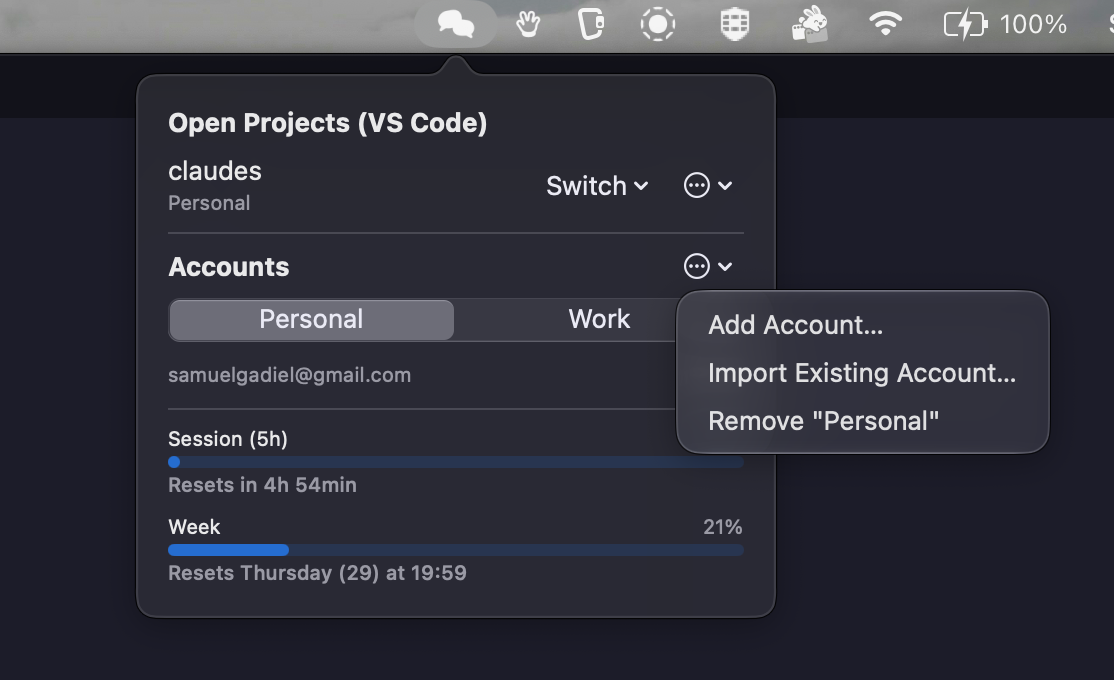
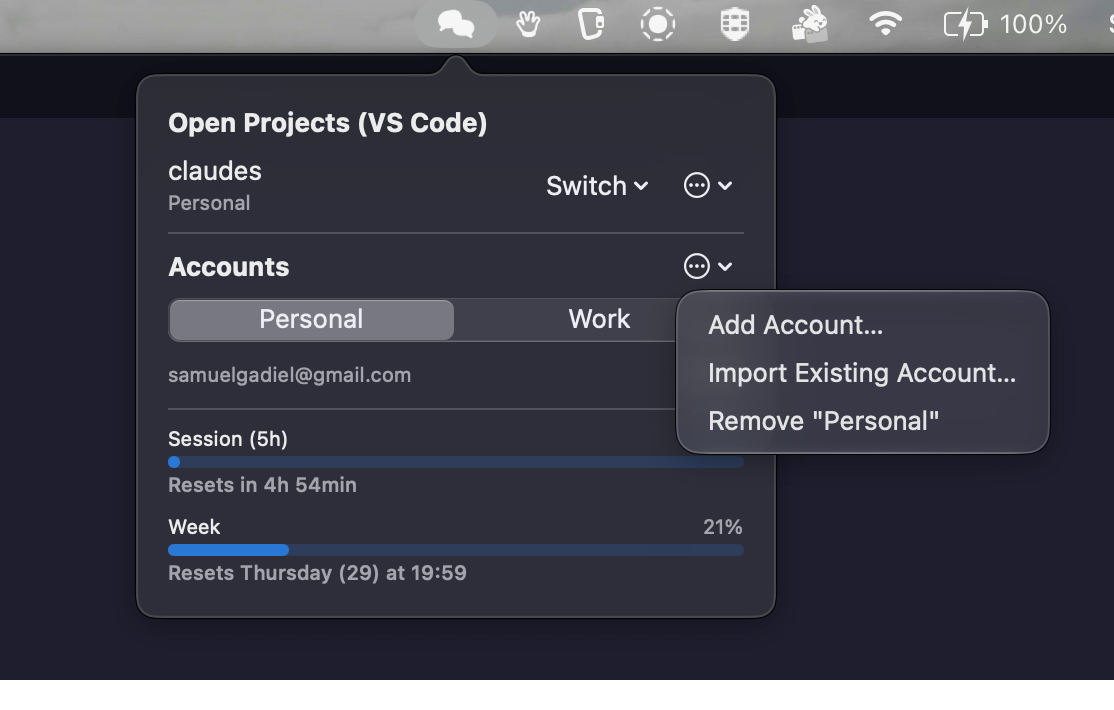
docs: fix GitHub-specific rendering issues in the README
Two things only showed up once rendered by GitHub, not in the VS Code
preview, both confirmed by rendering this file through the real GitHub
markdown API before committing:

- Large gap between the header icon and "ClaudeS": caused by the <h1>'s
  own margin-top applying between sibling elements. Moving the icon
  inside the <h1> (with a <br>) removes the gap between elements
  entirely.
- Boxed/bordered screenshots: GitHub's CSS puts a border on any <table>
  it renders, regardless of how it was generated — including the ones I
  used just to get vertical-align: top (the `style` attribute is stripped
  by GitHub's sanitizer, so valign on <td> was the only way that worked).
  Replaced with plain <p align="center"> and padded panel-high-usage.png
  and accounts-menu.png with transparent space at the bottom so each
  pairs up at an identical aspect ratio with its sibling — alignment now
  comes from the images themselves, no table needed.

diff --git a/README.md b/README.md
@@ -1,6 +1,8 @@
 <div align="center">
-  <img src="assets/ClaudeS-rounded.png" width="120" height="120" alt="ClaudeS icon">
-  <h1>ClaudeS</h1>
+  <h1>
+    <img src="assets/ClaudeS-rounded.png" width="120" height="120" alt="ClaudeS icon"><br>
+    ClaudeS
+  </h1>
   <p><strong>Run Claude Code under multiple accounts, side by side, without fighting VS Code over it.</strong></p>
 
   ![Platform](https://img.shields.io/badge/platform-macOS%2013%2B-blue?style=flat-square)
@@ -11,10 +13,10 @@
 
 <br>
 
-<table align="center"><tr>
-  <td valign="top"><img src="assets/screenshots/panel.png" width="340" alt="ClaudeS menu bar panel showing open VS Code projects and account usage"></td>
-  <td valign="top"><img src="assets/screenshots/panel-high-usage.png" width="340" alt="ClaudeS panel with session usage above 75%, shown in orange"></td>
-</tr></table>
+<p align="center">
+  <img src="assets/screenshots/panel.png" width="340" alt="ClaudeS menu bar panel showing open VS Code projects and account usage">
+  <img src="assets/screenshots/panel-high-usage.png" width="340" alt="ClaudeS panel with session usage above 75%, shown in orange">
+</p>
 
 ## Why
 
@@ -53,15 +55,13 @@ Download the latest `ClaudeS-*.zip` from [Releases](https://github.com/SamuelGad
 - **Native and small** — Swift + SwiftUI, no Electron, no background daemon you didn't ask for.
 - English and Portuguese (BR).
 
-<table align="center">
-<tr>
-  <td valign="top"><img src="assets/screenshots/accounts-menu.png" width="400" alt="Add, import, or remove an account right from the panel"></td>
-  <td valign="top"><img src="assets/screenshots/menu.png" width="400" alt="ClaudeS menu bar right-click menu"></td>
-</tr>
-<tr>
-  <td colspan="2" align="center"><img src="assets/screenshots/patch-verified.png" width="400" alt="VS Code extension patch verification result"></td>
-</tr>
-</table>
+<p align="center">
+  <img src="assets/screenshots/accounts-menu.png" width="400" alt="Add, import, or remove an account right from the panel">
+  <img src="assets/screenshots/menu.png" width="400" alt="ClaudeS menu bar right-click menu">
+</p>
+<p align="center">
+  <img src="assets/screenshots/patch-verified.png" width="400" alt="VS Code extension patch verification result">
+</p>
 
 ## Command line
 
